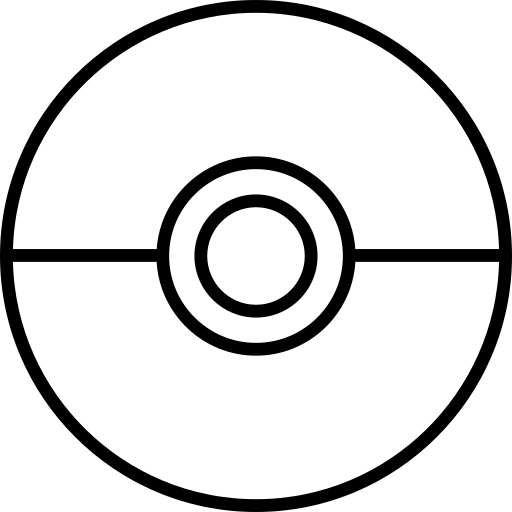
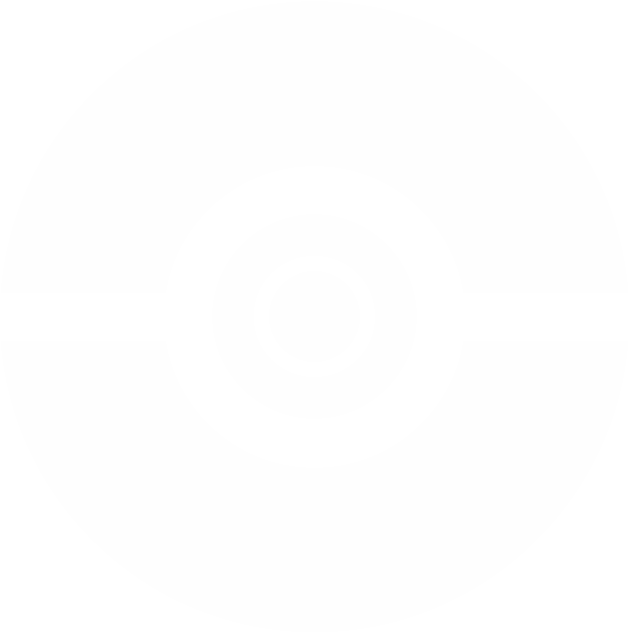
adding some styles

Changed region(s): [[0.0, 0.0, 1.0, 1.0], [0.375, 0.375, 0.625, 0.625]]

diff --git a/src/assets/stylesheets/App.css b/src/assets/stylesheets/App.css
@@ -20,6 +20,7 @@
     --fairy-color: #D685AD;
     --unknown-color:#4f8071;
     --shadow-color:black;
+    --all-color:black;
 }
 
 .search-poke{
@@ -51,6 +52,7 @@
 }
 
 .pokemon{
+    position: relative;
     width:18em;
     border-radius: 20px;
     border: 1px solid lightgray;
@@ -90,7 +92,7 @@
     text-align: end;
     margin-right: 2px;
     font-size: 18px;
-    color: #1f29374d;
+    color: #787878d9;
     transition-timing-function: ease;
     transition-duration: 0.7s;
 }
@@ -118,9 +120,9 @@
 }
 
 .pokeball-img{
-    position: relative;
-    bottom: 110px;
-    left: 50px;
+    position: absolute;
+    top: 120px;
+    right: -30px;
 }
 
 .pokemon.normal {
@@ -333,6 +335,12 @@
     box-shadow: 3px 5px var(--shadow-color);
 }
 
+.type-button.all {
+    border: 2px solid var(--all-color);
+    color: var(--all-color);
+    box-shadow: 3px 5px var(--all-color);
+}
+
 
 .type-button.normal:hover {
     background-color: var(--normal-color);
@@ -434,12 +442,25 @@
     color: white;
 }
 
+.type-button.all:hover {
+    background-color: var(--all-color);
+    color: white;
+}
+
 .type-button:hover{
     cursor:pointer;
     box-shadow: none;
 }
 
 .image-poke{
+    transition-timing-function: ease;
+    transition-duration: 0.5s;
+    position: relative;
+    top:10px;
+    z-index: 2;
+}
+
+.pokeball-img{
     transition-timing-function: ease;
     transition-duration: 0.5s;
 }
@@ -450,5 +471,9 @@
 
 .pokemon:hover > .poke-number{
     color:white;
+}
+
+.pokemon:hover .pokeball-img{
+    transform: rotate(45deg);
 }
 

diff --git a/src/components/pokemon.tsx b/src/components/pokemon.tsx
@@ -1,6 +1,6 @@
 import React, {useEffect, useState} from 'react';
 import Pokemon from "../models/pokemon";
-import image from "../assets/images/image.png"
+import pokeball from "../assets/images/pokeball.png"
 import {capitalize, pokenumber} from "../utils/string";
 interface PokemonProps {
     pokemon:Pokemon;
@@ -24,7 +24,8 @@ const PokemonComponent: React.FC<PokemonProps> = ({ pokemon }) => {
                     ))}
                 </div>
                 <div className="poke-image">
-                    <img className={"image-poke"} src={`https://raw.githubusercontent.com/PokeAPI/sprites/master/sprites/pokemon/other/official-artwork/${pokemon.id}.png`} width={150} height={150} alt="pokemon" />
+                    <img className={"image-poke"} src={`https://raw.githubusercontent.com/PokeAPI/sprites/master/sprites/pokemon/other/official-artwork/${pokemon.id}.png`} width={160} height={160} alt="pokemon" />
+                    <img className={"pokeball-img"} src={pokeball} width={200} height={200} alt="pokeball" />
                 </div>
             </div>
         </div>

diff --git a/src/components/types.tsx b/src/components/types.tsx
@@ -19,10 +19,17 @@ const Types : React.FC = () => {
         }
         init();
     }, [types]);
-    const listItems = types.map(type => <button className={"type-button " + (type.name)}>{type.name.toUpperCase()}</button>);
+    const listItems = [<button key="all" className={"type-button all"}>ALL</button>];
+    listItems.push(
+        ...types.map(type => (
+            <button key={type.name} className={`type-button ${type.name}`}>
+                {type.name.toUpperCase()}
+            </button>
+        ))
+    );
     return (
         <div className={"types"}>
-            <h1>Types</h1>
+            <h1>Choose a type</h1>
             <div className={"type-list"}>
                 {listItems}
             </div>

diff --git a/src/components/App.tsx b/src/components/App.tsx
@@ -6,12 +6,15 @@ import PokemonList from "./pokemonlist";
 import Types from "./types";
 
 const App : React.FC = () => {
+    const onPokemonInput = () => {
+     console.log("pedale")
+    }
   return (
     <div className="App">
       <h1>Pokemons</h1>
       <div className={"search"}>
         <FontAwesomeIcon className={"search-icon"} icon={icon({name: 'magnifying-glass', style:'solid'})} />
-        <input className={"search-poke"} type={"text"} placeholder={"Search a pokémon !"}/>
+        <input onInput={onPokemonInput} className={"search-poke"} type={"text"} placeholder={"Search a pokémon !"}/>
       </div>
         <Types></Types>
         <PokemonList></PokemonList>
